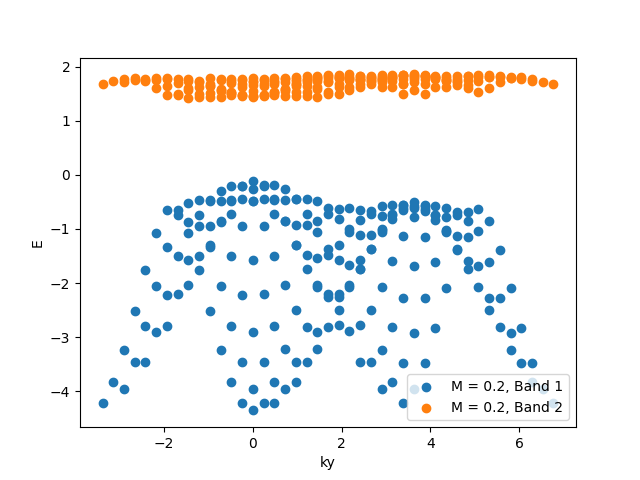
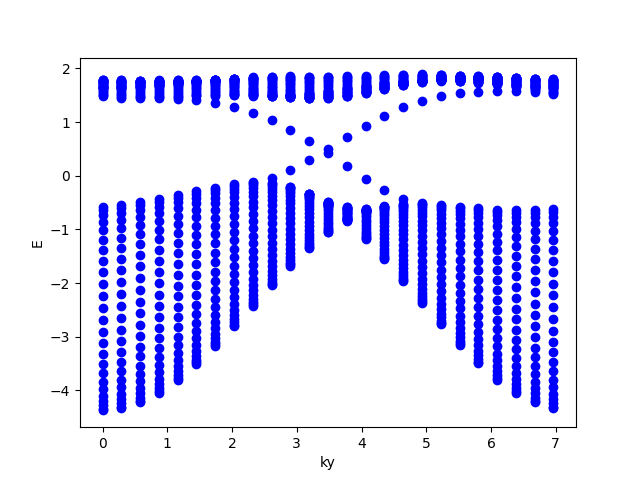
Finished non-periodic

diff --git a/lattice.py b/lattice.py
@@ -6,7 +6,7 @@ import scipy
 import scipy.linalg
 import time
 
-#arrow_list = []
+arrow_list = []
 
 class Lattice():
     def __init__(self, Nshape, sites, lattice_vectors=1, sublattice_vectors=0, site_coordination=-1, site_potential=0, special_hops=[], special_site_hops=[], periodic=[]):
@@ -46,13 +46,6 @@ class Lattice():
         self.neighbor_vectors = self.NeighborVectors()
         if debug:
             print(f"NeighborVectors took {time.time() - start_time:.4f} seconds")
-
-        self.periodic = periodic
-        if len(periodic) == 0:
-            if self.dims > 0:
-                self.periodic = [True for i in range(self.dims)]
-            else:
-                self.periodic = True
 
         self.matrix_dim = len(self.labels)
 
@@ -116,10 +109,13 @@ class Lattice():
         else:
             max_index = self.Nshape*self.sites
 
+        #print("max index:", max_index)
         for i in range(max_index):
             site = i % self.sites
 
             j = i // self.sites
+
+            #print(i, j, site)
 
             if self.dims > 1:
                 pos = []
@@ -127,7 +123,7 @@ class Lattice():
                     pos.append(j % dim + 1)
                     j =  j // dim
                 
-                labels.append((tuple(pos[::-1]), chr(ord('a')+site)))
+                labels.append((tuple(pos), chr(ord('a')+site)))
             else:
                 labels.append((j % self.Nshape + 1, chr(ord('a')+site)))
 
@@ -159,7 +155,7 @@ class Lattice():
         if self.dims > 1:
             for dim in range(self.dims):
                 mult = self.sites
-                for i in range(dim+1, self.dims):
+                for i in range(0, dim):
                     mult *= self.Nshape[i]
                 index += (label[0][dim]-1)*mult
         else:
@@ -200,7 +196,7 @@ class Lattice():
                     pos.append(j % dim)
                     j =  j // dim
                 
-                labels.append((tuple(pos[::-1]), chr(ord('a')+site)))
+                labels.append((tuple(pos), chr(ord('a')+site)))
             else:
                 labels.append((j % self.Nshape, chr(ord('a')+site)))
 
@@ -241,11 +237,9 @@ class Lattice():
         pos = []
         if self.dims > 1:
             for dim in range(self.dims):
-                if self.periodic[dim] or label[0][dim] + vector[dim] <= self.Nshape[dim]:
-                    pos.append((label[0][dim] + vector[dim] - 1) % self.Nshape[dim] + 1)
+                pos.append((label[0][dim] + vector[dim] - 1) % self.Nshape[dim] + 1)
         else:
-            if self.periodic or label[0] + vector <= self.Nshape:
-                pos = (label[0] + vector[0] - 1) % self.Nshape + 1
+            pos = (label[0] + vector[0] - 1) % self.Nshape + 1
 
         site = chr((ord(label[1]) - ord("a") + vector[-1]) % self.sites + ord("a"))
 
@@ -261,16 +255,11 @@ class Lattice():
         mom = []
         if self.dims > 1:
             for dim in range(self.dims):
-                if self.periodic[dim] or mlabel[0][dim] + vector[dim] < self.Nshape[dim]:
-                    mom.append((mlabel[0][dim] + vector[dim]) % self.Nshape[dim])
+                mom.append((mlabel[0][dim] + vector[dim]) % self.Nshape[dim])
         else:
-            if self.periodic or mlabel[0] + vector < self.Nshape:
-                mom = (mlabel[0] + vector[0]) % self.Nshape
+            mom = (mlabel[0] + vector[0]) % self.Nshape
 
         site = chr((ord(mlabel[1]) - ord("a") + vector[-1]) % self.sites + ord("a"))
-
-        if len(mom) < self.dims: # No site at vector
-            return (-1,), False
 
         if self.dims > 1:
             return (tuple(mom), site), True
@@ -369,6 +358,7 @@ class Lattice():
                             continue
                         j = self.LabelToIndex(label2)
                         
+                        arrow_list.append((label1, label2))
                         H[i, j] = self.site_coordination[dist_site]
             else:
                 vector_list = site_vector_list[0] # Get list of vectors at that distance
@@ -378,6 +368,7 @@ class Lattice():
                         continue
                     j = self.LabelToIndex(label2)
                     
+                    arrow_list.append((label1, label2))
                     H[i, j] = self.site_coordination
             
             # Special Hops
@@ -397,6 +388,7 @@ class Lattice():
                         continue
                     j = self.LabelToIndex(label2)
                     
+                    arrow_list.append((label1, label2))
                     H[i, j] = hop[1]
 
         return H
@@ -516,7 +508,8 @@ class Lattice():
             index2 = (self.LabelToIndex(self.MomentumLabelToLabel(mlabel2)) // self.sites)
             
             #p = np.angle(self.eigenvectors[current_site][index1].ravel() @ self.eigenvectors[current_site][index2].ravel())
-            phase += np.angle(np.conj(self.eigenvectors[current_site][index1].ravel()) @ self.eigenvectors[current_site][index2].ravel())
+            #phase += np.angle(np.conj(self.eigenvectors[current_site][index1].ravel()) @ self.eigenvectors[current_site][index2].ravel())
+            #print(self.eigenvectors.shape)
             total *= (np.conj(self.eigenvectors[current_site][index1].ravel()) @ self.eigenvectors[current_site][index2].ravel())
             mlabel1 = mlabel2
         
@@ -536,7 +529,13 @@ class Lattice():
     def calculateChernNumber(self):
         return np.round(np.sum(self.berry_flux[0])/(2*np.pi),5)
         # return np.array([np.sum(self.berry_flux[i])/(2*np.pi) for i in range(self.sites)])
-    
+
+
+""" test = Lattice((4,2), 1, [(1, 0), (0, 1)])
+pos = [test.LabelToR(label) for label in test.labels]
+plt.plot(*zip(*pos), marker='o', color='r', ls='')
+plt.show() """
+
 # Hydrogen
 #hydrogen = Lattice(100, 1, 1, 0)
 #print("Hydrogen:")
@@ -590,6 +589,11 @@ if save:
 plt.show() """
 
 #Graphene
+
+""" graphene = Lattice((9,10), 2, [(1, 0), (1/2, np.sqrt(3)/2)], [(0,0), (0, 1/np.sqrt(3))])
+pos = [graphene.LabelToR(label) for label in graphene.labels]
+plt.plot(*zip(*pos), marker='o', color='r', ls='')
+plt.show() """
 
 """ graphene = Lattice((50,50), 2, [(1, 0), (1/2, np.sqrt(3)/2)], [(0,0), (0, 1/np.sqrt(3))])
 #print("Graphene:")
@@ -650,7 +654,7 @@ plt.tight_layout()
 if save:
     plt.savefig("images/Graphene_Evk_with_slice.png")
 
-save = True
+save = False
 pos = [graphene.LabelToR(label) for label in graphene.labels]
 
 plt.figure()
@@ -702,7 +706,7 @@ plt.show() """
 """ M = 1
 boron_nitride = Lattice((50,50), 2, [(1, 0), (1/2, np.sqrt(3)/2)], [(0,0), (0, 1/np.sqrt(3))], site_potential=[M, -M])
 print("Boron Nitride:")
-save = True
+save = False
 plt.figure()
 plt.matshow(boron_nitride.Hk.real)
 if save:
@@ -992,31 +996,139 @@ tp = 0.3
 phi = 0.7
 forward = -tp*np.exp(1j*phi)
 backward = -tp*np.exp(-1j*phi)
-special_hops_a = [((1, 0, 0), forward), ((-1, 1, 0), forward), ((0, -1, 0), forward), ((-1, 0, 0), backward), ((1, -1, 0), backward), ((0, 1, 0), backward)]
-special_hops_b = [((1, 0, 0), backward), ((-1, 1, 0), backward), ((0, -1, 0), backward), ((-1, 0, 0), forward), ((1, -1, 0), forward), ((0, 1, 0), forward)]
-special_site_hops = [special_hops_a,special_hops_b]
-haldane1 = Lattice((15,15), 2, [(1, 0), (1/2, np.sqrt(3)/2)], [(0,0), (0, 1/np.sqrt(3))], site_potential=[M_1, -M_1], special_site_hops=special_site_hops, periodic=[False, True])
-haldane2 = Lattice((15,15), 2, [(1, 0), (1/2, np.sqrt(3)/2)], [(0,0), (0, 1/np.sqrt(3))], site_potential=[M_2, -M_2], special_site_hops=special_site_hops, periodic=[False, True])
+
+Ny = 25
+
+site_vectors = []
+for i in range(Ny):
+    for j in range(2):
+        site_vectors.append((i*1, j*1/np.sqrt(3)))
+
+site_potential_1 = []
+for i in range(Ny):
+    for j in range(2):
+        if j == 0:
+            site_potential_1.append(M_1)
+        else:
+            site_potential_1.append(-M_1)
+
+site_potential_2 = []
+for i in range(Ny):
+    for j in range(2):
+        if j == 0:
+            site_potential_2.append(M_2)
+        else:
+            site_potential_2.append(-M_2)
+
+
+special_site_hops = []
+for i in range(Ny):
+    for j in range(2):
+        if i == 0:
+            if j == 0:
+                special_site_hops.append([((0, 0, 2), forward), 
+                                          ((0, -1, 0), forward), 
+                                          ((0, -1, 2), backward), 
+                                          ((0, 1, 0), backward)])
+            else:
+                special_site_hops.append([((0, 0, 2), backward), 
+                                          ((0, -1, 0), backward), 
+                                          ((0, -1, 2), forward), 
+                                          ((0, 1, 0), forward)])
+        elif i == Ny-1:
+            if j == 0:
+                special_site_hops.append([((0, 1, -2), forward), 
+                                          ((0, -1, 0), forward), 
+                                          ((0, 0, -2), backward), 
+                                          ((0, 1, 0), backward)])
+            else:
+                special_site_hops.append([((0, 1, -2), backward), 
+                                          ((0, -1, 0), backward), 
+                                          ((0, 0, -2), forward), 
+                                          ((0, 1, 0), forward)])
+        else:
+            if j == 0:
+                special_site_hops.append([((0, 0, 2), forward), 
+                                          ((0, 1, -2), forward), 
+                                          ((0, -1, 0), forward), 
+                                          ((0, 0, -2), backward), 
+                                          ((0, -1, 2), backward), 
+                                          ((0, 1, 0), backward)])
+            else:
+                special_site_hops.append([((0, 0, 2), backward), 
+                                          ((0, 1, -2), backward), 
+                                          ((0, -1, 0), backward), 
+                                          ((0, 0, -2), forward), 
+                                          ((0, -1, 2), forward), 
+                                          ((0, 1, 0), forward)])
+
+
+haldane1 = Lattice((1,Ny), 2*Ny, [(1, 0), (1/2, np.sqrt(3)/2)], site_vectors, site_potential=site_potential_1, special_site_hops=special_site_hops, periodic=[False, True])
+haldane2 = Lattice((1,Ny), 2*Ny, [(1, 0), (1/2, np.sqrt(3)/2)], site_vectors, site_potential=site_potential_2, special_site_hops=special_site_hops, periodic=[False, True])
 
 print("Chern M = 0.2:", haldane1.calculateChernNumber())
 print("Chern M = 2.0:", haldane2.calculateChernNumber())
 
+pos = [haldane1.LabelToR(label) for label in haldane1.labels]
+plt.figure()
+plt.plot(*zip(*pos), marker='o', color='b', ls='')
+plt.title("Haldane Atoms")
+plt.xlabel("x")
+plt.ylabel("y") """
+
+""" 
+for arrow in arrow_list:
+    label1 = arrow[0]
+    label2 = arrow[1]
+
+    print(label1, label2)
+    color_list = "rbrbrbrbrbrbrbrbrbrb"
+    color = color_list[ord(label1[1]) - ord("a")]
+
+    dx = label2[0][0] - label1[0][0]
+    dy = label2[0][1] - label1[0][1]
+
+    if dx > 1:
+        label2 = ((label1[0][0]-1, label1[0][1]), label1[1])
+    if dx < -1:
+        label2 = ((label1[0][0]+1, label1[0][1]), label1[1])
+    
+    if dy > 1:
+        label2 = ((label1[0][0], label1[0][1]-1), label1[1])
+    if dy < -1:
+        label2 = ((label1[0][0], label1[0][1]+1), label1[1])
+
+    pos1 = haldane1.LabelToR(label1)
+    pos2 = haldane1.LabelToR(label2)
+
+    dx = pos2[0] - pos1[0]
+    dy = pos2[1] - pos1[1]
+
+    plt.arrow(pos1[0],pos1[1], dx, dy, length_includes_head=True, head_width=0.15, head_length=0.2, color=color) """
+
+""" plt.show()
+
+plt.matshow(haldane2.H.real)
+plt.show()
+plt.matshow(haldane2.Hk.real)
+plt.title("Hk")
 plt.show()
 
-plt.scatter(haldane1.momentums[1], haldane1.energies[0])
-plt.scatter(haldane1.momentums[1], haldane1.energies[1])
+for i in range(2*Ny):
+    plt.scatter(haldane1.momentums[1], haldane1.energies[i], color = "b")
+#plt.scatter(haldane1.momentums[1], haldane1.energies[1])
 plt.xlabel("ky")
 plt.ylabel("E")
-plt.legend(["M = 0.2, Band 1", "M = 0.2, Band 2"])
 if save:
     plt.savefig("images/Haldane_02_non_periodic.png")
 
 plt.show()
 
-plt.scatter(haldane2.momentums[1], haldane2.energies[0])
-plt.scatter(haldane2.momentums[1], haldane2.energies[1])
+for i in range(2*Ny):
+    plt.scatter(haldane2.momentums[1], haldane2.energies[i], color = "b")
 plt.xlabel("ky")
 plt.ylabel("E")
-plt.legend(["M = 2.0, Band 1", "M = 2.0, Band 2"])
 if save:
-    plt.savefig("images/Haldane_20_non_periodic.png") """
+    plt.savefig("images/Haldane_20_non_periodic.png")
+
+plt.show() """
